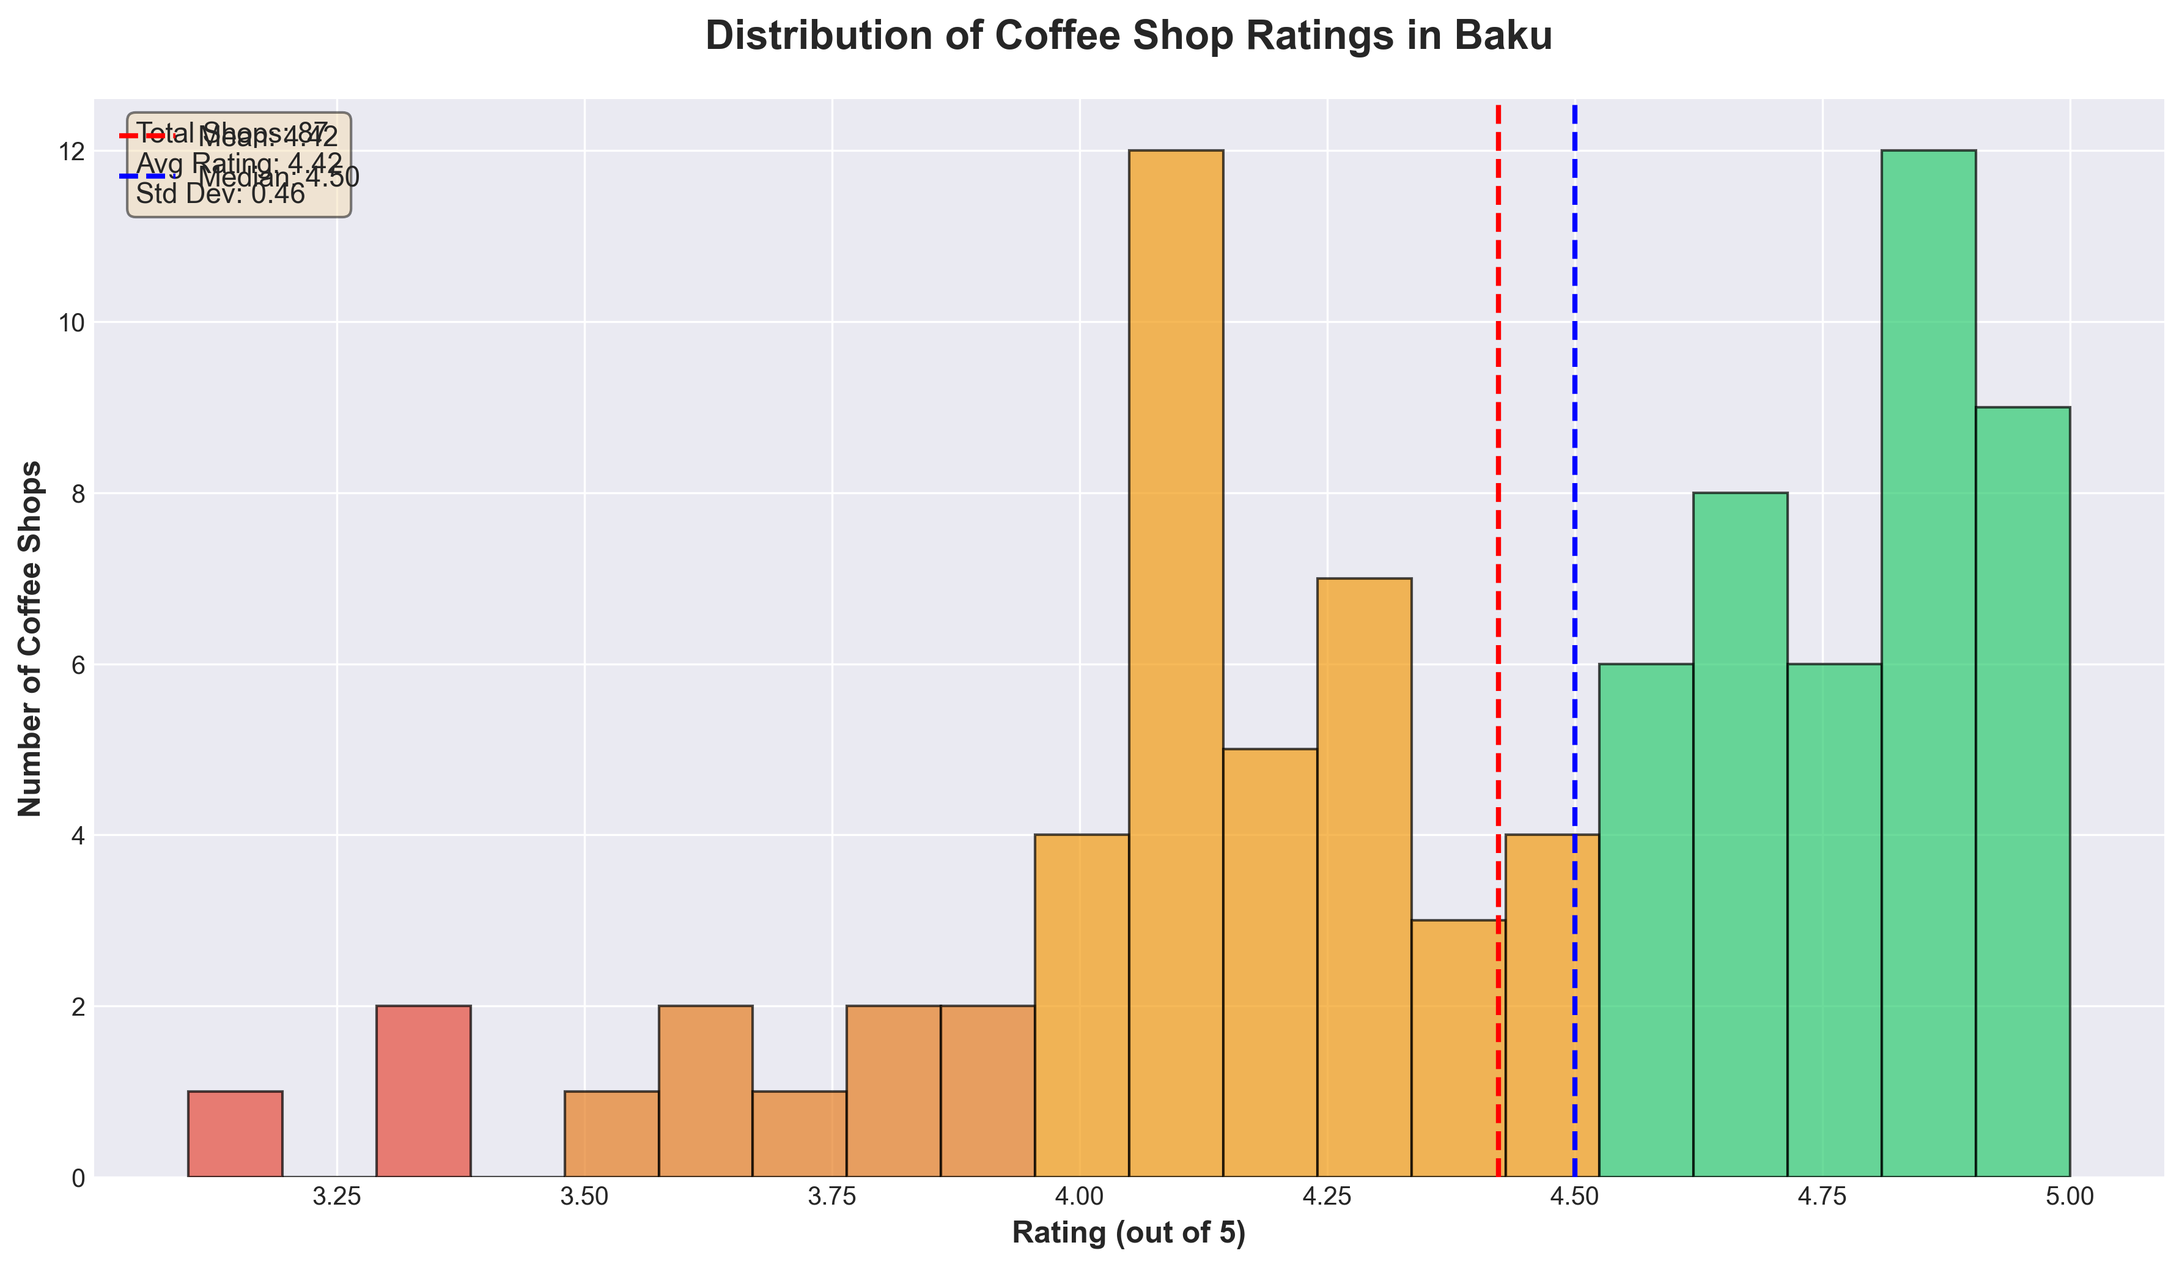
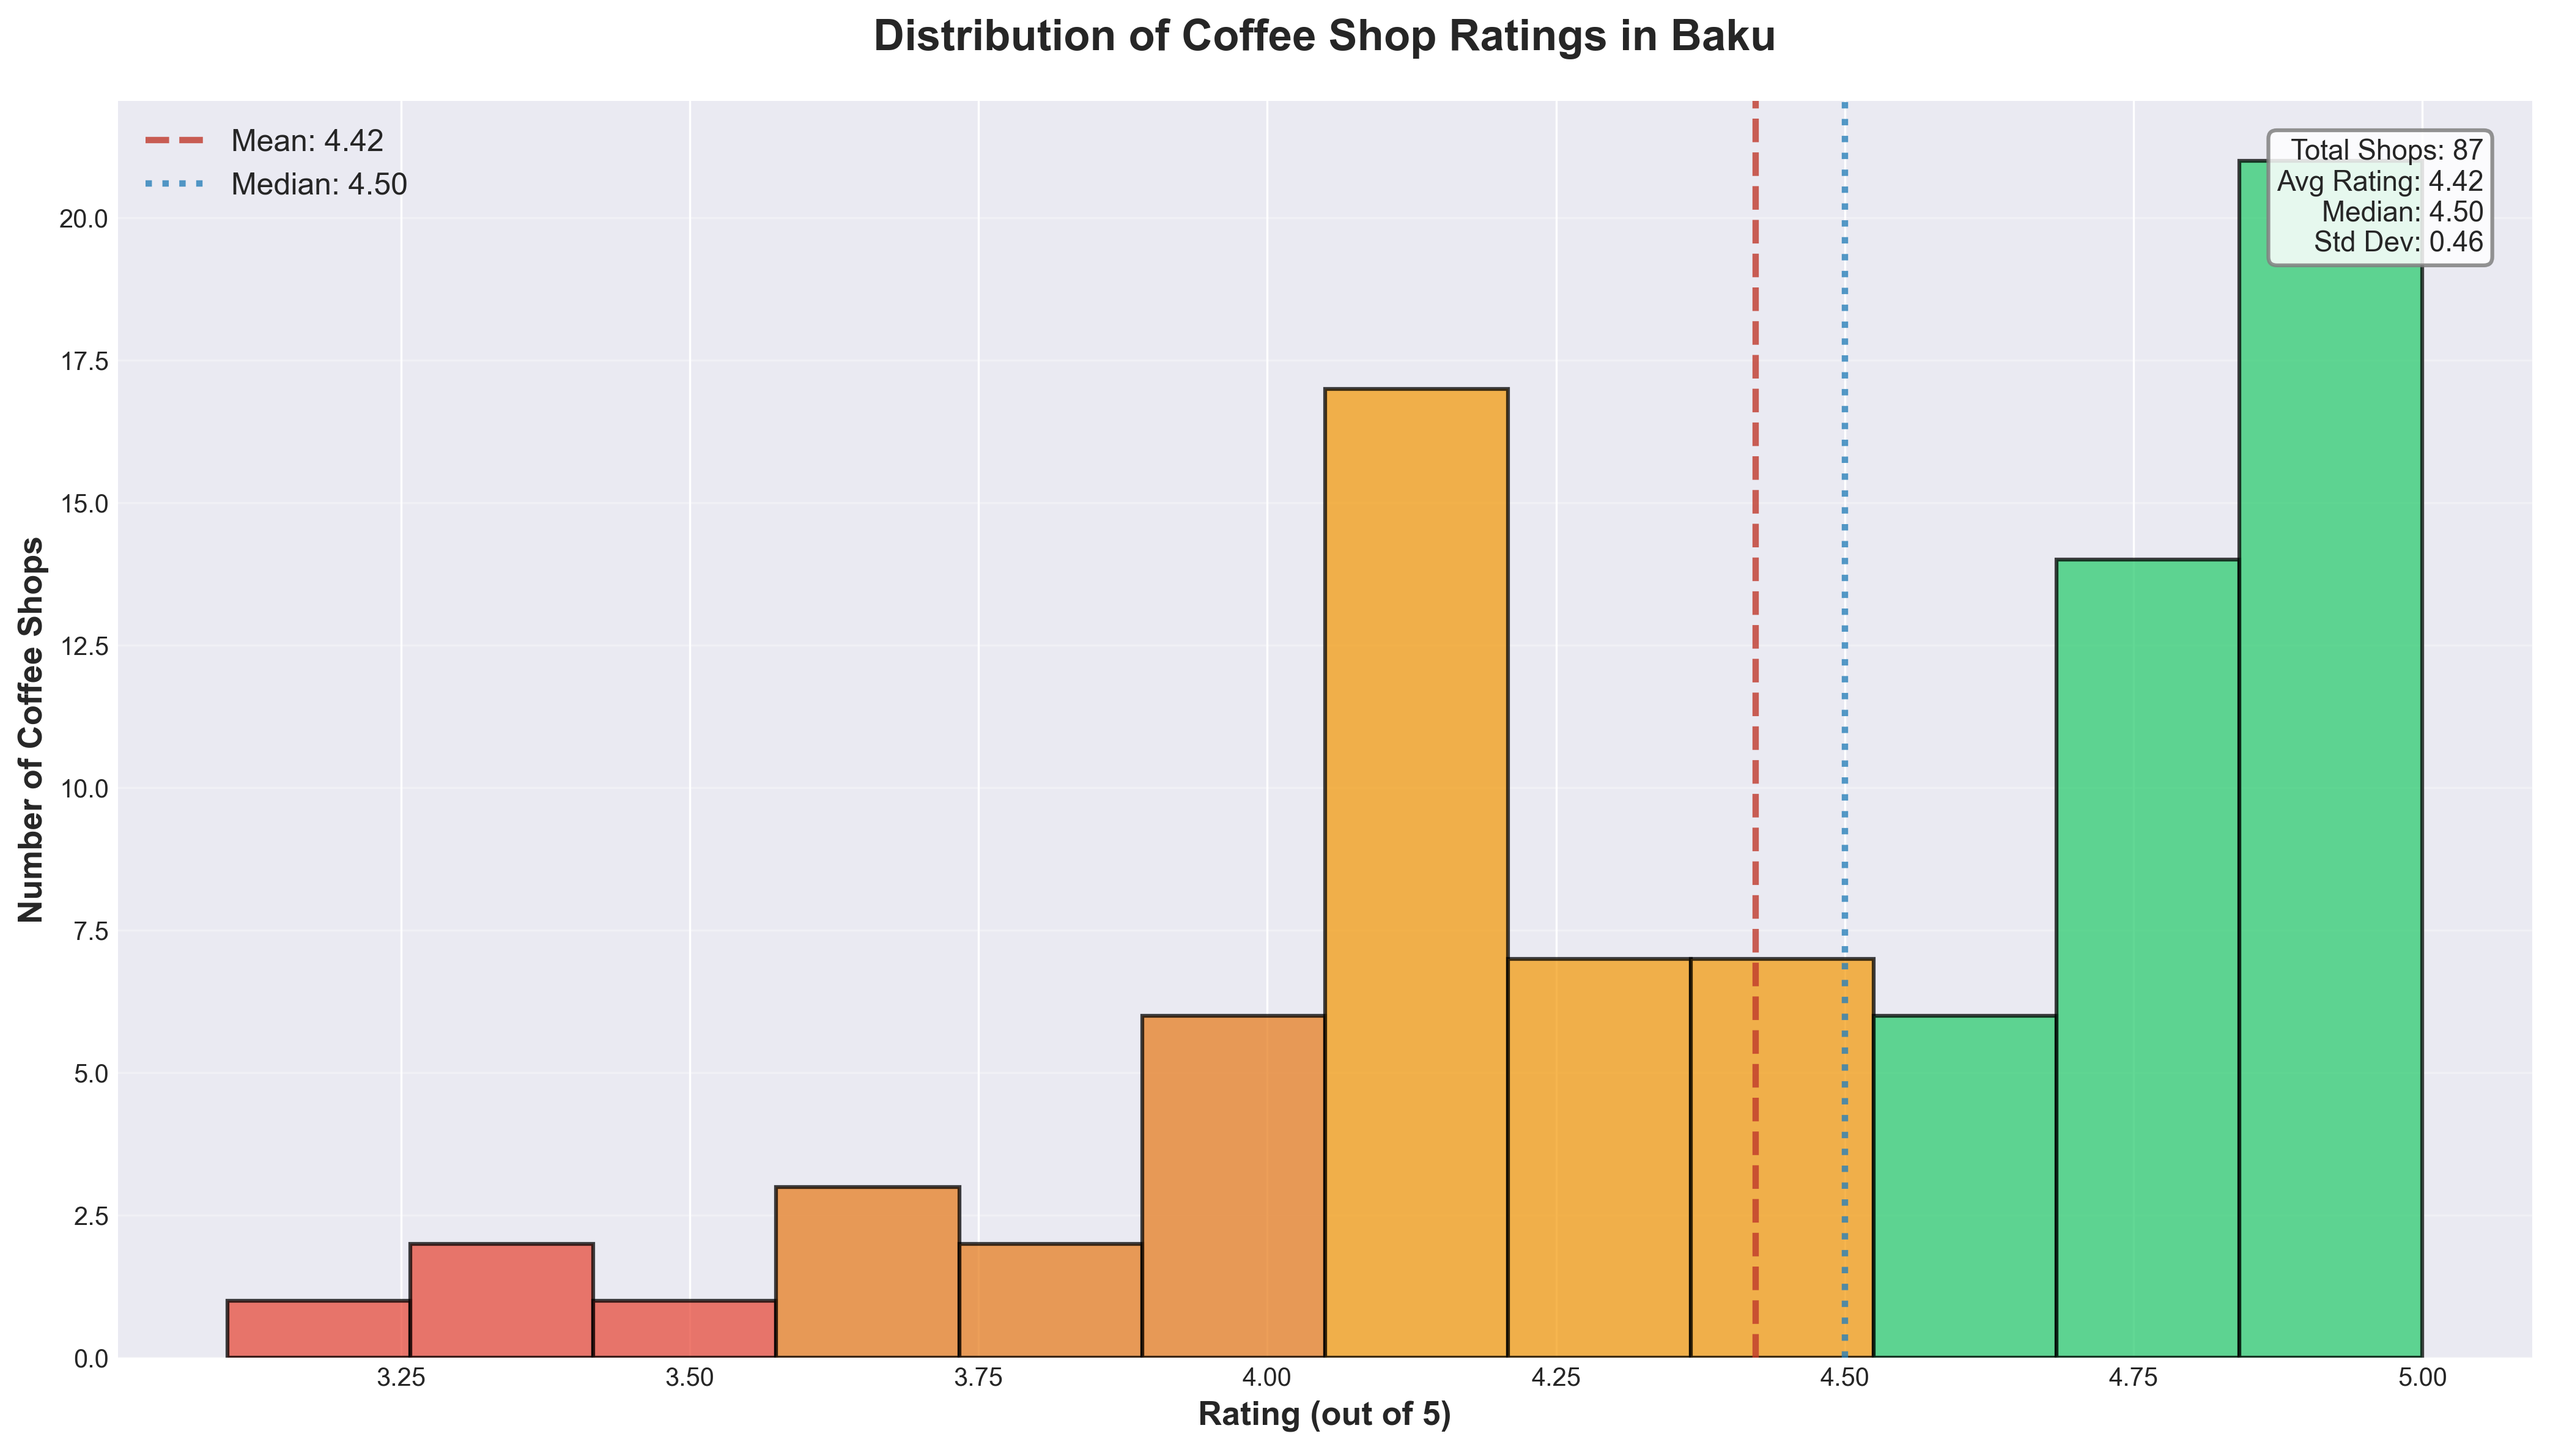
init

diff --git a/scripts/create_charts.py b/scripts/create_charts.py
@@ -153,9 +153,10 @@ def chart4_rating_distribution(shops):
     """Chart 4: Overall Rating Distribution"""
     ratings = [float(s['rating']) for s in shops if s['rating'] != 'N/A']
 
-    fig, ax = plt.subplots(figsize=(12, 7))
+    fig, ax = plt.subplots(figsize=(14, 8))
 
-    n, bins, patches = ax.hist(ratings, bins=20, edgecolor='black', alpha=0.7)
+    # Use fewer bins to reduce clutter
+    n, bins, patches = ax.hist(ratings, bins=12, edgecolor='black', alpha=0.75, linewidth=1.5)
 
     # Color bars by rating
     for i, patch in enumerate(patches):
@@ -169,22 +170,32 @@ def chart4_rating_distribution(shops):
         else:
             patch.set_facecolor('#e74c3c')
 
-    ax.axvline(np.mean(ratings), color='red', linestyle='--', linewidth=2,
-               label=f'Mean: {np.mean(ratings):.2f}')
-    ax.axvline(np.median(ratings), color='blue', linestyle='--', linewidth=2,
-               label=f'Median: {np.median(ratings):.2f}')
+    # Add mean and median lines
+    mean_val = np.mean(ratings)
+    median_val = np.median(ratings)
 
-    ax.set_xlabel('Rating (out of 5)', fontsize=12, weight='bold')
-    ax.set_ylabel('Number of Coffee Shops', fontsize=12, weight='bold')
+    ax.axvline(mean_val, color='#c0392b', linestyle='--', linewidth=2.5,
+               label=f'Mean: {mean_val:.2f}', alpha=0.8)
+    ax.axvline(median_val, color='#2980b9', linestyle=':', linewidth=2.5,
+               label=f'Median: {median_val:.2f}', alpha=0.8)
+
+    ax.set_xlabel('Rating (out of 5)', fontsize=13, weight='bold')
+    ax.set_ylabel('Number of Coffee Shops', fontsize=13, weight='bold')
     ax.set_title('Distribution of Coffee Shop Ratings in Baku',
-                 fontsize=16, weight='bold', pad=20)
-    ax.legend(fontsize=11)
+                 fontsize=17, weight='bold', pad=20)
 
-    # Add statistics text
-    stats_text = f'Total Shops: {len(ratings)}\nAvg Rating: {np.mean(ratings):.2f}\nStd Dev: {np.std(ratings):.2f}'
-    ax.text(0.02, 0.98, stats_text, transform=ax.transAxes,
-            fontsize=11, verticalalignment='top',
-            bbox=dict(boxstyle='round', facecolor='wheat', alpha=0.5))
+    # Position legend to avoid overlap
+    ax.legend(fontsize=12, loc='upper left', framealpha=0.9)
+
+    # Add statistics text box - position it better
+    stats_text = f'Total Shops: {len(ratings)}\nAvg Rating: {mean_val:.2f}\nMedian: {median_val:.2f}\nStd Dev: {np.std(ratings):.2f}'
+    ax.text(0.98, 0.97, stats_text, transform=ax.transAxes,
+            fontsize=11, verticalalignment='top', horizontalalignment='right',
+            bbox=dict(boxstyle='round', facecolor='white', alpha=0.85, edgecolor='gray', linewidth=1.5))
+
+    # Add grid for better readability
+    ax.grid(True, alpha=0.3, axis='y')
+    ax.set_axisbelow(True)
 
     plt.tight_layout()
     plt.savefig(os.path.join(CHARTS_DIR, '4_rating_distribution.png'), dpi=300, bbox_inches='tight')
